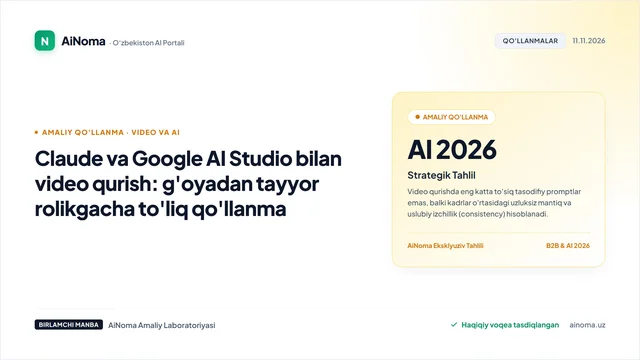
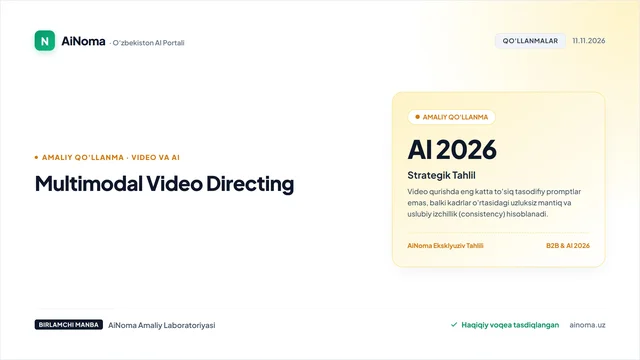
feat(prod): automated live deployment sync

Changed region(s): [[0.0312, 0.3361, 0.5312, 0.6111]]

diff --git a/ainoma/articles-data.js b/ainoma/articles-data.js
@@ -1,5 +1,3 @@
-// AiNoma Central Content Database
-// Generated & Synchronized automatically
 window.AINOMA_ARTICLES = {
   "dizaynerlar-uchun-ai": {
     "id": "dizaynerlar-uchun-ai",
@@ -6859,7 +6857,8 @@ window.AINOMA_ARTICLES = {
     ],
     "body": "<p><b>Qisqa javob:</b> Sun'iy intellekt xavfsizligi va yetakchi tadqiqotlar bo'yicha gigant hisoblangan Anthropic o'zining yangi flagman modellari — <b>Claude Fable 5.2</b> hamda <b>Mythos 5.2</b> tizimlarini rasman e'lon qildi. Ushbu yangi modellar OpenAI'ning GPT-6 Astra modeliga munosib javob bo'lib, korxonalarga 20 foiz arzonroq narxda yuqori mantiqiy fikrlash quvvatini taqdim etadi.</p>\n\n<h2 class=\"article-section-title\">Astra bilan kuchlar tenglashuvi</h2>\n<p>Kuz mavsumida OpenAI GPT-6 Astra modelini taqdim etgach, dasturlash va murakkab agentlik vazifalarida bozor yetakchiligini o'ziga qaratgan edi. Anthropic tomonidan taqdim etilgan Fable 5.2 va Mythos 5.2 aynan ushbu bo'shliqni to'ldiradi. Mustaqil benchmarklar ko'rsatishicha, yangi Claude modellari kod tahlili, huquqiy va ilmiy matnlarni qayta ishlash hamda ko'p bosqichli matematik xulosalashda OpenAI flagmani bilan mutlaqo teng natijalarni qayd etgan.</p>\n\n<h2 class=\"article-section-title\">20% arzon narx siyosati</h2>\n<p>Anthropic jamoasi yangi modellarni tarqatishda korporativ mijozlar uchun jozibador narx taklifini ilgari surmoqda. 1 million kirish tokeni bahosi <b>8 dollar</b>, chiqish tokeni esa <b>40 dollar</b> etib belgilandi. Bu OpenAI Astra modelining rasmiy API narxlaridan taxminan 20 foiz pastroq deganidir. Yirik korxonalar va SaaS kompaniyalar uchun bu hisoblash byudjetini yuz minglab dollarga tejash imkonini beradi.</p>\n\n<h2 class=\"article-section-title\">Nasdaq IPO arafasidagi strategik qadam</h2>\n<p>Ushbu yangilik Anthropic kompaniyasining Nasdaq birjasida kutilayotgan ommaviy birlamchi aksiyalar savdosi (IPO, ticker: <code>ANT</code>) arafasida e'lon qilindi. Kompaniyaning 1 trillion dollardan oshiq baholanishi kutilayotgan bir paytda, yangi modellar Anthropic nafaqat ilmiy xavfsizlik, balki tijoriy samaradorlik bo'yicha ham sanoat yetakchisi ekanligini isbotlamoqda.</p>",
     "contentHtml": "<p><b>Qisqa javob:</b> Sun'iy intellekt xavfsizligi va yetakchi tadqiqotlar bo'yicha gigant hisoblangan Anthropic o'zining yangi flagman modellari — <b>Claude Fable 5.2</b> hamda <b>Mythos 5.2</b> tizimlarini rasman e'lon qildi. Ushbu yangi modellar OpenAI'ning GPT-6 Astra modeliga munosib javob bo'lib, korxonalarga 20 foiz arzonroq narxda yuqori mantiqiy fikrlash quvvatini taqdim etadi.</p>\n\n<h2 class=\"article-section-title\">Astra bilan kuchlar tenglashuvi</h2>\n<p>Kuz mavsumida OpenAI GPT-6 Astra modelini taqdim etgach, dasturlash va murakkab agentlik vazifalarida bozor yetakchiligini o'ziga qaratgan edi. Anthropic tomonidan taqdim etilgan Fable 5.2 va Mythos 5.2 aynan ushbu bo'shliqni to'ldiradi. Mustaqil benchmarklar ko'rsatishicha, yangi Claude modellari kod tahlili, huquqiy va ilmiy matnlarni qayta ishlash hamda ko'p bosqichli matematik xulosalashda OpenAI flagmani bilan mutlaqo teng natijalarni qayd etgan.</p>\n\n<h2 class=\"article-section-title\">20% arzon narx siyosati</h2>\n<p>Anthropic jamoasi yangi modellarni tarqatishda korporativ mijozlar uchun jozibador narx taklifini ilgari surmoqda. 1 million kirish tokeni bahosi <b>8 dollar</b>, chiqish tokeni esa <b>40 dollar</b> etib belgilandi. Bu OpenAI Astra modelining rasmiy API narxlaridan taxminan 20 foiz pastroq deganidir. Yirik korxonalar va SaaS kompaniyalar uchun bu hisoblash byudjetini yuz minglab dollarga tejash imkonini beradi.</p>\n\n<h2 class=\"article-section-title\">Nasdaq IPO arafasidagi strategik qadam</h2>\n<p>Ushbu yangilik Anthropic kompaniyasining Nasdaq birjasida kutilayotgan ommaviy birlamchi aksiyalar savdosi (IPO, ticker: <code>ANT</code>) arafasida e'lon qilindi. Kompaniyaning 1 trillion dollardan oshiq baholanishi kutilayotgan bir paytda, yangi modellar Anthropic nafaqat ilmiy xavfsizlik, balki tijoriy samaradorlik bo'yicha ham sanoat yetakchisi ekanligini isbotlamoqda.</p>",
-    "verification_status": "VERIFIED"
+    "verification_status": "VERIFIED",
+    "banner_title": "Claude Fable 5.2 & Mythos 5.2"
   },
   "google-tpu-8tx-8i-max-chiplarini-chiqardi-2026": {
     "id": "google-tpu-8tx-8i-max-chiplarini-chiqardi-2026",
@@ -6898,7 +6897,8 @@ window.AINOMA_ARTICLES = {
     ],
     "body": "<p><b>Qisqa javob:</b> Google bulutli hisoblash va sun'iy intellekt infratuzilmasi sohasida muhim qadam tashlab, o'zining navbatdagi maxsus neyron protsessorlari — <b>TPU 8tx</b> hamda <b>TPU 8i Max</b> chiplarini namoyish etdi. Ushbu chiplar Nvidia apparaturasiga nisbatan 30 foiz arzon narxda inferens va trening imkoniyatini taqdim etadi.</p>\n\n<h2 class=\"article-section-title\">Nvidia apparat monopoliyasiga to'g'ridan-to'g'ri zarba</h2>\n<p>Bozorda Nvidia GPU chiplari (ayniqsa Blackwell va undan keyingi arxitekturalar) taqchilligi va haddan tashqari qimmatligi IT kompaniyalarini muqobil yo'llar qidirishga majbur qilmoqda. Google tomonidan taqdim etilgan TPU 8tx katta hajmdagi parametrlarga ega til modellarini o'qitish uchun, 8i Max esa past kechikish vaqti (latency) bilan keng ko'lamli so'rovlarni qayta ishlashga (inferens) ixtisoslashgan.</p>\n\n<h2 class=\"article-section-title\">Energiya tejamkorligi va optik kommutatsiya</h2>\n<p>Google yangi TPU podlarida o'zining ilg'or Optical Circuit Switching (OCS) texnologiyasini yangi bosqichga olib chiqdi. Bu chiplararo ma'lumot uzatishda elektr energiyasini 40 foizga tejash, ma'lumotlar uzatish kechikishini esa deyarli nolga tushirish imkonini beradi. Natijada yirik klasterlarda hisoblash samaradorligi 1.4 baravarga oshgan.</p>\n\n<h2 class=\"article-section-title\">Bozor yetakchilari TPU klasterlariga o'tmoqda</h2>\n<p>E'tiborli jihati, Google TPU chiplaridan faqat o'zining Gemini modellari uchun emas, balki boshqa AI gigantlari ham keng foydalanmoqda. Anthropic, Meta va Oracle korporatsiyalari yangi TPU 8tx klasterlarini buyurtma qilib bo'lgan. Wall Street tahlilchilari prognoziga ko'ra, OpenAI ham xavflarni diversifikatsiya qilish maqsadida Google TPU quvvatlaridan foydalanish bo'yicha muzokaralar olib bormoqda.</p>",
     "contentHtml": "<p><b>Qisqa javob:</b> Google bulutli hisoblash va sun'iy intellekt infratuzilmasi sohasida muhim qadam tashlab, o'zining navbatdagi maxsus neyron protsessorlari — <b>TPU 8tx</b> hamda <b>TPU 8i Max</b> chiplarini namoyish etdi. Ushbu chiplar Nvidia apparaturasiga nisbatan 30 foiz arzon narxda inferens va trening imkoniyatini taqdim etadi.</p>\n\n<h2 class=\"article-section-title\">Nvidia apparat monopoliyasiga to'g'ridan-to'g'ri zarba</h2>\n<p>Bozorda Nvidia GPU chiplari (ayniqsa Blackwell va undan keyingi arxitekturalar) taqchilligi va haddan tashqari qimmatligi IT kompaniyalarini muqobil yo'llar qidirishga majbur qilmoqda. Google tomonidan taqdim etilgan TPU 8tx katta hajmdagi parametrlarga ega til modellarini o'qitish uchun, 8i Max esa past kechikish vaqti (latency) bilan keng ko'lamli so'rovlarni qayta ishlashga (inferens) ixtisoslashgan.</p>\n\n<h2 class=\"article-section-title\">Energiya tejamkorligi va optik kommutatsiya</h2>\n<p>Google yangi TPU podlarida o'zining ilg'or Optical Circuit Switching (OCS) texnologiyasini yangi bosqichga olib chiqdi. Bu chiplararo ma'lumot uzatishda elektr energiyasini 40 foizga tejash, ma'lumotlar uzatish kechikishini esa deyarli nolga tushirish imkonini beradi. Natijada yirik klasterlarda hisoblash samaradorligi 1.4 baravarga oshgan.</p>\n\n<h2 class=\"article-section-title\">Bozor yetakchilari TPU klasterlariga o'tmoqda</h2>\n<p>E'tiborli jihati, Google TPU chiplaridan faqat o'zining Gemini modellari uchun emas, balki boshqa AI gigantlari ham keng foydalanmoqda. Anthropic, Meta va Oracle korporatsiyalari yangi TPU 8tx klasterlarini buyurtma qilib bo'lgan. Wall Street tahlilchilari prognoziga ko'ra, OpenAI ham xavflarni diversifikatsiya qilish maqsadida Google TPU quvvatlaridan foydalanish bo'yicha muzokaralar olib bormoqda.</p>",
-    "verification_status": "VERIFIED"
+    "verification_status": "VERIFIED",
+    "banner_title": "Google TPU 8tx & 8i Max"
   },
   "huquqshunoslar-uchun-ai": {
     "id": "huquqshunoslar-uchun-ai",
@@ -6937,7 +6937,8 @@ window.AINOMA_ARTICLES = {
     ],
     "body": "<p><b>Qisqa javob:</b> Sun'iy intellekt katta hajmdagi hujjatlarni tezda ko'rib chiqish, asosiy bandlarni ajratib olish va birinchi qoralamalarni tayyorlashda vaqtni sezilarli tejaydi — ammo yakuniy huquqiy xulosa va mas'uliyat har doim inson yuristning o'zida qoladi.</p>\n\n<h2 class=\"article-section-title\">Qayerda eng ko'p yordam beradi?</h2>\n<p><b>1. Uzun hujjatlarni tezda ko'rib chiqish.</b> Ko'p sahifali shartnoma yoki qonun hujjatini AI tizimiga berib, asosiy bandlar, muddatlar, jarimalar va majburiyatlarni qisqa tahliliy ro'yxat shaklida olishingiz mumkin.</p>\n<p><b>2. Birinchi qoralama tayyorlash.</b> Standart xat, e'tiroznomalar, da'vo arizalari yoki oddiy shartnoma shablonining boshlang'ich qoralamasini bir necha daqiqada tayyorlash — keyin uni o'zingiz to'liq tahrirlash imkoniyati taqdim etiladi.</p>\n<p><b>3. Til va uslubni yaxshilash.</b> Yuridik hujjatni aniqroq, tushunarliroq tilda qayta bayon qilish (ayniqsa mijozga yuboriladigan tushuntirish xatlari uchun juda qulay).</p>\n<p><b>4. Solishtirish (Redline tahlil).</b> Ikki shartnoma variantini (masalan, eski va yangi tahrir) solishtirib, yashirin o'zgarishlar va asosiy farqlarni bir zumda topish.</p>\n\n<h2 class=\"article-section-title\">Qayerda AI'ga ishonib bo'lmaydi?</h2>\n<p>⚠ <b>Gallyutsinatsiyalar va qonun normalari:</b> AI amaldagi qonunchilikni har doim to'liq va aniq bilmasligi mumkin — ayniqsa O'zbekiston Respublikasi qonunchiligidagi so'nggi tahrirlar bo'yicha. AI ba'zan ishonchli ohangda, ammo aslida mavjud bo'lmagan qonun moddalari yoki sud pretsedentlarini to'qib chiqarishi (hallucination) mumkin. Har qanday huquqiy havola yoki modda raqamini <code>Lex.uz</code> kabi rasmiy davlat bazalarida tekshirish shart.</p>\n\n<p>🔒 <b>Mijoz sirlari va konfidentsiallik:</b> Mijozlarning tijorat sirlari, shartnoma summalari va shaxsiy ma'lumotlarini ochiq umumiy AI platformalariga kiritish taqiqlanadi. Agar enterprise darajasidagi xavfsiz klaster bo'lmasa, maxfiy ma'lumotlar ochiqlanishi xavfi mavjud.</p>\n\n<h2 class=\"article-section-title\">Oltin qoida: Junior yordamchi tamoyili</h2>\n<p>Sun'iy intellektdan malakali yordamchi sifatida foydalaning: u sizga qoralama va tahlil tezligini beradi, biroq hujjatga qo'yiladigan har bir imzo va professional xulosa — sizning shaxsiy mas'uliyatingizdir.</p>",
     "contentHtml": "<p><b>Qisqa javob:</b> Sun'iy intellekt katta hajmdagi hujjatlarni tezda ko'rib chiqish, asosiy bandlarni ajratib olish va birinchi qoralamalarni tayyorlashda vaqtni sezilarli tejaydi — ammo yakuniy huquqiy xulosa va mas'uliyat har doim inson yuristning o'zida qoladi.</p>\n\n<h2 class=\"article-section-title\">Qayerda eng ko'p yordam beradi?</h2>\n<p><b>1. Uzun hujjatlarni tezda ko'rib chiqish.</b> Ko'p sahifali shartnoma yoki qonun hujjatini AI tizimiga berib, asosiy bandlar, muddatlar, jarimalar va majburiyatlarni qisqa tahliliy ro'yxat shaklida olishingiz mumkin.</p>\n<p><b>2. Birinchi qoralama tayyorlash.</b> Standart xat, e'tiroznomalar, da'vo arizalari yoki oddiy shartnoma shablonining boshlang'ich qoralamasini bir necha daqiqada tayyorlash — keyin uni o'zingiz to'liq tahrirlash imkoniyati taqdim etiladi.</p>\n<p><b>3. Til va uslubni yaxshilash.</b> Yuridik hujjatni aniqroq, tushunarliroq tilda qayta bayon qilish (ayniqsa mijozga yuboriladigan tushuntirish xatlari uchun juda qulay).</p>\n<p><b>4. Solishtirish (Redline tahlil).</b> Ikki shartnoma variantini (masalan, eski va yangi tahrir) solishtirib, yashirin o'zgarishlar va asosiy farqlarni bir zumda topish.</p>\n\n<h2 class=\"article-section-title\">Qayerda AI'ga ishonib bo'lmaydi?</h2>\n<p>⚠ <b>Gallyutsinatsiyalar va qonun normalari:</b> AI amaldagi qonunchilikni har doim to'liq va aniq bilmasligi mumkin — ayniqsa O'zbekiston Respublikasi qonunchiligidagi so'nggi tahrirlar bo'yicha. AI ba'zan ishonchli ohangda, ammo aslida mavjud bo'lmagan qonun moddalari yoki sud pretsedentlarini to'qib chiqarishi (hallucination) mumkin. Har qanday huquqiy havola yoki modda raqamini <code>Lex.uz</code> kabi rasmiy davlat bazalarida tekshirish shart.</p>\n\n<p>🔒 <b>Mijoz sirlari va konfidentsiallik:</b> Mijozlarning tijorat sirlari, shartnoma summalari va shaxsiy ma'lumotlarini ochiq umumiy AI platformalariga kiritish taqiqlanadi. Agar enterprise darajasidagi xavfsiz klaster bo'lmasa, maxfiy ma'lumotlar ochiqlanishi xavfi mavjud.</p>\n\n<h2 class=\"article-section-title\">Oltin qoida: Junior yordamchi tamoyili</h2>\n<p>Sun'iy intellektdan malakali yordamchi sifatida foydalaning: u sizga qoralama va tahlil tezligini beradi, biroq hujjatga qo'yiladigan har bir imzo va professional xulosa — sizning shaxsiy mas'uliyatingizdir.</p>",
-    "verification_status": "VERIFIED"
+    "verification_status": "VERIFIED",
+    "banner_title": "Huquqshunoslar Uchun AI"
   },
   "openai-businesses-in-chatgpt-business-hub-2026": {
     "id": "openai-businesses-in-chatgpt-business-hub-2026",
@@ -6976,7 +6977,8 @@ window.AINOMA_ARTICLES = {
     ],
     "body": "<p><b>Qisqa javob:</b> OpenAI sun'iy intellekt orqali qidiruv va muloqot bozoridan so'ng endi global elektron tijorat markaziga aylanmoqda. Yangi taqdim etilgan <b>«Businesses in ChatGPT»</b> dasturi orqali kompaniyalar ChatGPT interfeysi ichida rasmiy tasdiqlangan biznes profilini ochish, mahsulotlar katalogini ulash va avtonom savdo agentlarini ishga tushirish imkoniyatiga ega bo'ldi.</p>\n\n<h2 class=\"article-section-title\">800 million auditoriya uchun to'g'ridan-to'g'ri vitrina</h2>\n<p>ChatGPT'ning haftalik faol foydalanuvchilari soni 800 milliondan oshgan bir paytda, foydalanuvchilar har kuni millionlab xarid bo'yicha tavsiyalar, mahsulot taqqoslashlari va xizmat qidiruvlarini amalga oshirmoqda. OpenAI yangi funksiya orqali an'anaviy veb-saytga o'tish zaruriyatini yo'qotib, barcha xarid jarayonini bevosita chat oqimida yakunlash muhitini shakllantirdi.</p>\n\n<h2 class=\"article-section-title\">Xususiy brend agenti va katalog integratsiyasi</h2>\n<p>Bizneslar endi o'z ERP, CRM va ombor tizimlarini ChatGPT bilan xavfsiz API protokollari orqali bog'lashi mumkin. Kompaniyaning maxsus sun'iy intellekt agenti quyidagi vazifalarni avtomatlashtiradi:</p>\n<ul>\n  <li>Mijozning o'lchami, didi va byudjetiga mos tovarlarni real vaqt rejimida tavsiya qilish;</li>\n  <li>Ombordagi qoldiqlarni tekshirish va yetkazib berish muddatlarini hisoblash;</li>\n  <li>To'lovni muloqot oynasining o'zida xavfsiz qabul qilish va chek taqdim etish.</li>\n</ul>\n\n<h2 class=\"article-section-title\">Google qidiruvi va an'anaviy e-commerce uchun chaqiruv</h2>\n<p>Ushbu yangilik an'anaviy qidiruv tizimlari (Google Search reklamalari) hamda Amazon, Shopify kabi onlayn platformalar uchun jiddiy raqobat muhitini paydo qilmoqda. Kompaniyalar endi mijozni qidiruv natijalaridan o'z saytiga jalb qilish o'rniga, uning muloqot qilayotgan joyida — sun'iy intellekt agenti orqali to'g'ridan-to'g'ri savdoni yo'lga qo'ymoqda.</p>",
     "contentHtml": "<p><b>Qisqa javob:</b> OpenAI sun'iy intellekt orqali qidiruv va muloqot bozoridan so'ng endi global elektron tijorat markaziga aylanmoqda. Yangi taqdim etilgan <b>«Businesses in ChatGPT»</b> dasturi orqali kompaniyalar ChatGPT interfeysi ichida rasmiy tasdiqlangan biznes profilini ochish, mahsulotlar katalogini ulash va avtonom savdo agentlarini ishga tushirish imkoniyatiga ega bo'ldi.</p>\n\n<h2 class=\"article-section-title\">800 million auditoriya uchun to'g'ridan-to'g'ri vitrina</h2>\n<p>ChatGPT'ning haftalik faol foydalanuvchilari soni 800 milliondan oshgan bir paytda, foydalanuvchilar har kuni millionlab xarid bo'yicha tavsiyalar, mahsulot taqqoslashlari va xizmat qidiruvlarini amalga oshirmoqda. OpenAI yangi funksiya orqali an'anaviy veb-saytga o'tish zaruriyatini yo'qotib, barcha xarid jarayonini bevosita chat oqimida yakunlash muhitini shakllantirdi.</p>\n\n<h2 class=\"article-section-title\">Xususiy brend agenti va katalog integratsiyasi</h2>\n<p>Bizneslar endi o'z ERP, CRM va ombor tizimlarini ChatGPT bilan xavfsiz API protokollari orqali bog'lashi mumkin. Kompaniyaning maxsus sun'iy intellekt agenti quyidagi vazifalarni avtomatlashtiradi:</p>\n<ul>\n  <li>Mijozning o'lchami, didi va byudjetiga mos tovarlarni real vaqt rejimida tavsiya qilish;</li>\n  <li>Ombordagi qoldiqlarni tekshirish va yetkazib berish muddatlarini hisoblash;</li>\n  <li>To'lovni muloqot oynasining o'zida xavfsiz qabul qilish va chek taqdim etish.</li>\n</ul>\n\n<h2 class=\"article-section-title\">Google qidiruvi va an'anaviy e-commerce uchun chaqiruv</h2>\n<p>Ushbu yangilik an'anaviy qidiruv tizimlari (Google Search reklamalari) hamda Amazon, Shopify kabi onlayn platformalar uchun jiddiy raqobat muhitini paydo qilmoqda. Kompaniyalar endi mijozni qidiruv natijalaridan o'z saytiga jalb qilish o'rniga, uning muloqot qilayotgan joyida — sun'iy intellekt agenti orqali to'g'ridan-to'g'ri savdoni yo'lga qo'ymoqda.</p>",
-    "verification_status": "VERIFIED"
+    "verification_status": "VERIFIED",
+    "banner_title": "Businesses in ChatGPT"
   },
   "anthropic-claude-sheets-whiteboards-ofis-dasturlari-2026": {
     "id": "anthropic-claude-sheets-whiteboards-ofis-dasturlari-2026",
@@ -7015,7 +7017,8 @@ window.AINOMA_ARTICLES = {
     ],
     "body": "<p><b>Qisqa javob:</b> Anthropic kompaniyasi generativ sun'iy intellekt modellarini amaliy ish oqimlariga chuqur integratsiya qilish strategiyasining yangi bosqichini boshladi. Taqdim etilgan <b>Claude Sheets</b> va <b>Claude Whiteboards</b> bevosita Google Workspace hamda Microsoft 365 ekotizimlarining eng ommabop vositalari bilan raqobatga kirishmoqda.</p>\n\n<h2 class=\"article-section-title\">Claude Sheets: Faol ma'lumotlar bilan hisob-kitob</h2>\n<p>An'anaviy elektron jadvallarda foydalanuvchilar murakkab formulalar (VLOOKUP, INDEX MATCH) yozishi yoki skriptlar tuzishi talab etiladi. Claude Sheets esa har bir katakchani sun'iy intellekt qobiliyati bilan jihozlaydi. Foydalanuvchi oddiy so'zlar bilan moliyaviy hisobotni tahlil qilish, daromadlar kaskadini hisoblash yoki bozor ko'rsatkichlarini taqqoslashni buyurishi mumkin — tizim formulalarni avtomatik qo'llab, to'liq diagrammalarni shakllantiradi.</p>\n\n<h2 class=\"article-section-title\">Claude Whiteboards: Murakkab tizimlarni vizual tushunish</h2>\n<p>Dasturiy arxitektura, biznes jarayonlar va mahsulot rejalari bilan ishlovchi jamoalar uchun Whiteboards interaktiv maydon taqdim etadi. Matnli talablar yoki mijoz bilan suhbat stenogrammasi Claude Whiteboards'ga yuklanganda, tizim bir zumda blok-sxemalar, foydalanuvchi yo'llari (user journeys) va tizimli modullarni vizual doskada tartiblab beradi.</p>\n\n<h2 class=\"article-section-title\">Korporativ bozor uchun yangi standart</h2>\n<p>Mazkur qadam Anthropic kompaniyasining dasturchilar va tadqiqotchilar doirasidan chiqib, millionlab ofis xodimlari va tahlilchilarning kundalik asosiy ish maydoniga aylanish maqsadini ko'rsatadi. Korxona xavfsizligi va maxfiylik standartlari to'liq saqlangan holda jamoaviy hamkorlik funksiyalari taqdim etilmoqda.</p>",
     "contentHtml": "<p><b>Qisqa javob:</b> Anthropic kompaniyasi generativ sun'iy intellekt modellarini amaliy ish oqimlariga chuqur integratsiya qilish strategiyasining yangi bosqichini boshladi. Taqdim etilgan <b>Claude Sheets</b> va <b>Claude Whiteboards</b> bevosita Google Workspace hamda Microsoft 365 ekotizimlarining eng ommabop vositalari bilan raqobatga kirishmoqda.</p>\n\n<h2 class=\"article-section-title\">Claude Sheets: Faol ma'lumotlar bilan hisob-kitob</h2>\n<p>An'anaviy elektron jadvallarda foydalanuvchilar murakkab formulalar (VLOOKUP, INDEX MATCH) yozishi yoki skriptlar tuzishi talab etiladi. Claude Sheets esa har bir katakchani sun'iy intellekt qobiliyati bilan jihozlaydi. Foydalanuvchi oddiy so'zlar bilan moliyaviy hisobotni tahlil qilish, daromadlar kaskadini hisoblash yoki bozor ko'rsatkichlarini taqqoslashni buyurishi mumkin — tizim formulalarni avtomatik qo'llab, to'liq diagrammalarni shakllantiradi.</p>\n\n<h2 class=\"article-section-title\">Claude Whiteboards: Murakkab tizimlarni vizual tushunish</h2>\n<p>Dasturiy arxitektura, biznes jarayonlar va mahsulot rejalari bilan ishlovchi jamoalar uchun Whiteboards interaktiv maydon taqdim etadi. Matnli talablar yoki mijoz bilan suhbat stenogrammasi Claude Whiteboards'ga yuklanganda, tizim bir zumda blok-sxemalar, foydalanuvchi yo'llari (user journeys) va tizimli modullarni vizual doskada tartiblab beradi.</p>\n\n<h2 class=\"article-section-title\">Korporativ bozor uchun yangi standart</h2>\n<p>Mazkur qadam Anthropic kompaniyasining dasturchilar va tadqiqotchilar doirasidan chiqib, millionlab ofis xodimlari va tahlilchilarning kundalik asosiy ish maydoniga aylanish maqsadini ko'rsatadi. Korxona xavfsizligi va maxfiylik standartlari to'liq saqlangan holda jamoaviy hamkorlik funksiyalari taqdim etilmoqda.</p>",
-    "verification_status": "VERIFIED"
+    "verification_status": "VERIFIED",
+    "banner_title": "Claude Sheets & Whiteboards"
   },
   "claude-va-google-ai-studio-bilan-video-qurish-qollanma": {
     "id": "claude-va-google-ai-studio-bilan-video-qurish-qollanma",
@@ -7054,6 +7057,7 @@ window.AINOMA_ARTICLES = {
     ],
     "body": "<p><b>Qisqa javob:</b> Ko'pchilik foydalanuvchilar sun'iy intellektda video ishlab chiqarishda bir xil xatoga yo'l qo'yadi: bitta umumiy prompt yozib, video generatoridan mo'jiza kutadi. Professional natijaga erishish uchun esa ikki bosqichli tizimli arxitektura zarur: <b>Claude</b> — mantiqiy ssenariy, kadrlar vaqti va rejissyorlik rejasi uchun javob beradi; <b>Google AI Studio (Gemini)</b> esa multimodal tahlil, vizual izchillik va Google Veo modeliga kiritiladigan optik ko'rsatkichlarni boshqaradi.</p>\n\n<h2 class=\"article-section-title\">1-bosqich: Claude bilan rejissyorlik rejasi va promptlar arxitekturasi</h2>\n<p>Rolik qurishni boshlashdan oldin Claude'ga aniq kontekst bering. Sun'iy intellekt video generatorlari (Google Veo, Runway, Kling, Sora) uchun har bir kadr alohida va batafsil yozilishi shart. Claude'ga quyidagi tizimli promptni yuboring:</p>\n\n<pre class=\"article-code-block\"><code>Siz xalqaro darajadagi kino rejissyori va video direktorsiz.\nMavzu: [Mavzuni yozing, masalan: Toshkentdagi yangi IT-park faoliyati]\nFormat: 30 soniyalik vertikal rolik (9:16)\nAuditoriya: Yosh mutaxassislar va xorijiy investorlar\n\nMenga 5 ta ketma-ket kadr (Shot-by-Shot) uchun quyidagi jadvalni taqdim eting:\n1. Kadr raqami va vaqti (masalan, Shot 1: 00:00 - 00:04);\n2. Vizual tavsif (qahramon harakati, muhit);\n3. Kamera optikasi va harakati (masalan: 35mm lens, dolly-in, shallow depth of field);\n4. Rang va yorug'lik harorati (masalan: cinematic golden hour, volumetric haze);\n5. AI Video generatori (Google Veo / Kling) uchun sof ingliz tilidagi yakuniy prompt.</code></pre>\n\n<p>Natijada Claude sizga tasodifiy gaplar emas, balki montajchining ishchi rejasiga o'xshash professional arxitekturani ishlab beradi.</p>\n\n<h2 class=\"article-section-title\">2-bosqich: Google AI Studio'da multimodal tahlil va izchillik nazorati</h2>\n<p>Kadrlar bo'yicha promptlar tayyor bo'lgach, ikkinchi muhim qadam — Google AI Studio (aistudio.google.com) platformasiga o'tishdir. Google AI Studio quyidagi vazifalarda tengsiz imkoniyat taqdim etadi:</p>\n<ul>\n  <li><b>Qahramon va rang izchilligi (Visual Consistency):</b> Agar sizda bosh qahramonning surati yoki brend ranglar palitrasi bo'lsa, uni Google AI Studio'ga yuklang va Gemini 2.0 Flash / Pro modeliga tahlil qildiring: <i>«Ushbu personaj kiyimi, yuz tuzilishi va atrof-muhit ranglarini keyingi barcha video promptlarida o'zgarmas saqlash uchun qaysi asosiy deskriptorlarni kiritish lozim?»</i></li>\n  <li><b>Video kadrlarni tekshirish:</b> Generatsiya qilingan dastlabki 3-5 soniyalik sinov parchalarini Google AI Studio'ga yuklab, harakat ritmi, kadrlar chalkashligi va fizik buzilishlarni aniqlashingiz mumkin.</li>\n</ul>\n\n<h2 class=\"article-section-title\">3-bosqich: Kadrlar bo'yicha generatsiya va Veo prompt qoidalari</h2>\n<p>Google Veo yoki yetakchi video generatorlariga prompt berishda quyidagi 4 elementli oltin qoidaga rioya qiling:</p>\n<ol>\n  <li><b>Subyekt va asosiy harakat:</b> Kadr markazida kim yoki nima bor va u aniq nima qilyapti (masalan, <i>«A software engineer walking through a futuristic glass-walled office»</i>);</li>\n  <li><b>Kamera va kompozitsiya:</b> Kamera qayerda va qanday harakatlanadi (masalan, <i>«Low-angle slow tracking shot, 50mm anamorphic lens, subtle motion blur»</i>);</li>\n  <li><b>Yorug'lik va atmosfera:</b> Ranglar va nur yo'nalishi (masalan, <i>«Soft morning cinematic sunlight streaming through floor-to-ceiling windows, dust motes floating»</i>);</li>\n  <li><b>Texnik sifat parametrlari:</b> <i>«Photorealistic, 8k resolution, cinematic color grading, hyper-detailed textures, 24fps»</i>.</li>\n</ol>\n\n<h2 class=\"article-section-title\">4-bosqich: Montaj, ovoz va subtitrlarni birlashtirish</h2>\n<p>Barcha 5 ta kadr tayyor bo'lgach, ularni CapCut, Premiere Pro yoki DaVinci Resolve dasturiga joylang:</p>\n<ul>\n  <li><b>Kadrlar o'tishi:</b> Har bir kadr davomiyligini ssenariydagi vaqt bilan moslang. AI videolarda eng yaxshi o'tish — bu oddiy kesish (hard cut) yoki sekin xiralashish (cross dissolve). Ortiqcha murakkab 3D o'tishlardan saqlaning;</li>\n  <li><b>Ovozlashtirish:</b> Claude orqali ssenariy diktor matnini (voiceover) ElevenLabs kabi neyron ovoz platformasida o'zbek yoki ingliz tilida professional yozib oling;</li>\n  <li><b>Dinamik subtitrlar:</b> Mobil auditoriya uchun subtitrlar judayam muhim. Kadr markazini to'smaydigan, qisqa va qulay shriftlardan foydalaning.</li>\n</ul>\n\n<h2 class=\"article-section-title\">Xulosa: Tizimli yondashuv — kafolatlangan sifat</h2>\n<p>Professional darajadagi video tayyorlashda sun'iy intellekt sehrli tugma emas, balki puxta boshqariladigan ijodiy guruhdir. Claude — ssenariy muallifi va bosh rejissyor vazifasini bajarsa, Google AI Studio — texnik tahlilchi va sifat nazoratchisi vazifasini o'taydi. Ushbu tizimli zanjir orqali siz minimal vaqt sarflab, yuqori sifatli vizual loyihalarni muvaffaqiyatli qurishingiz mumkin.</p>",
     "contentHtml": "<p><b>Qisqa javob:</b> Ko'pchilik foydalanuvchilar sun'iy intellektda video ishlab chiqarishda bir xil xatoga yo'l qo'yadi: bitta umumiy prompt yozib, video generatoridan mo'jiza kutadi. Professional natijaga erishish uchun esa ikki bosqichli tizimli arxitektura zarur: <b>Claude</b> — mantiqiy ssenariy, kadrlar vaqti va rejissyorlik rejasi uchun javob beradi; <b>Google AI Studio (Gemini)</b> esa multimodal tahlil, vizual izchillik va Google Veo modeliga kiritiladigan optik ko'rsatkichlarni boshqaradi.</p>\n\n<h2 class=\"article-section-title\">1-bosqich: Claude bilan rejissyorlik rejasi va promptlar arxitekturasi</h2>\n<p>Rolik qurishni boshlashdan oldin Claude'ga aniq kontekst bering. Sun'iy intellekt video generatorlari (Google Veo, Runway, Kling, Sora) uchun har bir kadr alohida va batafsil yozilishi shart. Claude'ga quyidagi tizimli promptni yuboring:</p>\n\n<pre class=\"article-code-block\"><code>Siz xalqaro darajadagi kino rejissyori va video direktorsiz.\nMavzu: [Mavzuni yozing, masalan: Toshkentdagi yangi IT-park faoliyati]\nFormat: 30 soniyalik vertikal rolik (9:16)\nAuditoriya: Yosh mutaxassislar va xorijiy investorlar\n\nMenga 5 ta ketma-ket kadr (Shot-by-Shot) uchun quyidagi jadvalni taqdim eting:\n1. Kadr raqami va vaqti (masalan, Shot 1: 00:00 - 00:04);\n2. Vizual tavsif (qahramon harakati, muhit);\n3. Kamera optikasi va harakati (masalan: 35mm lens, dolly-in, shallow depth of field);\n4. Rang va yorug'lik harorati (masalan: cinematic golden hour, volumetric haze);\n5. AI Video generatori (Google Veo / Kling) uchun sof ingliz tilidagi yakuniy prompt.</code></pre>\n\n<p>Natijada Claude sizga tasodifiy gaplar emas, balki montajchining ishchi rejasiga o'xshash professional arxitekturani ishlab beradi.</p>\n\n<h2 class=\"article-section-title\">2-bosqich: Google AI Studio'da multimodal tahlil va izchillik nazorati</h2>\n<p>Kadrlar bo'yicha promptlar tayyor bo'lgach, ikkinchi muhim qadam — Google AI Studio (aistudio.google.com) platformasiga o'tishdir. Google AI Studio quyidagi vazifalarda tengsiz imkoniyat taqdim etadi:</p>\n<ul>\n  <li><b>Qahramon va rang izchilligi (Visual Consistency):</b> Agar sizda bosh qahramonning surati yoki brend ranglar palitrasi bo'lsa, uni Google AI Studio'ga yuklang va Gemini 2.0 Flash / Pro modeliga tahlil qildiring: <i>«Ushbu personaj kiyimi, yuz tuzilishi va atrof-muhit ranglarini keyingi barcha video promptlarida o'zgarmas saqlash uchun qaysi asosiy deskriptorlarni kiritish lozim?»</i></li>\n  <li><b>Video kadrlarni tekshirish:</b> Generatsiya qilingan dastlabki 3-5 soniyalik sinov parchalarini Google AI Studio'ga yuklab, harakat ritmi, kadrlar chalkashligi va fizik buzilishlarni aniqlashingiz mumkin.</li>\n</ul>\n\n<h2 class=\"article-section-title\">3-bosqich: Kadrlar bo'yicha generatsiya va Veo prompt qoidalari</h2>\n<p>Google Veo yoki yetakchi video generatorlariga prompt berishda quyidagi 4 elementli oltin qoidaga rioya qiling:</p>\n<ol>\n  <li><b>Subyekt va asosiy harakat:</b> Kadr markazida kim yoki nima bor va u aniq nima qilyapti (masalan, <i>«A software engineer walking through a futuristic glass-walled office»</i>);</li>\n  <li><b>Kamera va kompozitsiya:</b> Kamera qayerda va qanday harakatlanadi (masalan, <i>«Low-angle slow tracking shot, 50mm anamorphic lens, subtle motion blur»</i>);</li>\n  <li><b>Yorug'lik va atmosfera:</b> Ranglar va nur yo'nalishi (masalan, <i>«Soft morning cinematic sunlight streaming through floor-to-ceiling windows, dust motes floating»</i>);</li>\n  <li><b>Texnik sifat parametrlari:</b> <i>«Photorealistic, 8k resolution, cinematic color grading, hyper-detailed textures, 24fps»</i>.</li>\n</ol>\n\n<h2 class=\"article-section-title\">4-bosqich: Montaj, ovoz va subtitrlarni birlashtirish</h2>\n<p>Barcha 5 ta kadr tayyor bo'lgach, ularni CapCut, Premiere Pro yoki DaVinci Resolve dasturiga joylang:</p>\n<ul>\n  <li><b>Kadrlar o'tishi:</b> Har bir kadr davomiyligini ssenariydagi vaqt bilan moslang. AI videolarda eng yaxshi o'tish — bu oddiy kesish (hard cut) yoki sekin xiralashish (cross dissolve). Ortiqcha murakkab 3D o'tishlardan saqlaning;</li>\n  <li><b>Ovozlashtirish:</b> Claude orqali ssenariy diktor matnini (voiceover) ElevenLabs kabi neyron ovoz platformasida o'zbek yoki ingliz tilida professional yozib oling;</li>\n  <li><b>Dinamik subtitrlar:</b> Mobil auditoriya uchun subtitrlar judayam muhim. Kadr markazini to'smaydigan, qisqa va qulay shriftlardan foydalaning.</li>\n</ul>\n\n<h2 class=\"article-section-title\">Xulosa: Tizimli yondashuv — kafolatlangan sifat</h2>\n<p>Professional darajadagi video tayyorlashda sun'iy intellekt sehrli tugma emas, balki puxta boshqariladigan ijodiy guruhdir. Claude — ssenariy muallifi va bosh rejissyor vazifasini bajarsa, Google AI Studio — texnik tahlilchi va sifat nazoratchisi vazifasini o'taydi. Ushbu tizimli zanjir orqali siz minimal vaqt sarflab, yuqori sifatli vizual loyihalarni muvaffaqiyatli qurishingiz mumkin.</p>",
-    "verification_status": "VERIFIED"
+    "verification_status": "VERIFIED",
+    "banner_title": "Multimodal Video Directing"
   }
 };

diff --git a/ainoma/index.html b/ainoma/index.html
@@ -7,7 +7,7 @@
   <meta name="keywords" content="sun'iy intellekt, suniy intellekt yangiliklari, ai vositalari, sun'iy intellekt dasturlari, chatgpt o'zbek tilida, ai qo'llanmalar, promptlar, ainoma">
   <title>AiNoma — O‘zbekistonda Sun’iy Intellekt (AI) Portali: Yangiliklar, Vositalar va Qo‘llanmalar</title>
   <meta name="google-site-verification" content="google88009caf699e3b68">
-  <link rel="stylesheet" href="style.css?v=1794398883">
+  <link rel="stylesheet" href="style.css?v=1794411774">
   <link rel="canonical" href="https://ainoma.uz/">
   <meta property="og:type" content="website">
   <meta property="og:site_name" content="AiNoma">
@@ -136,7 +136,7 @@
       </a>
     </div>
 
-                                                                                                                                                                                                                                                                                                                                                                                                                                                                                                                                                    <!-- Latest News Split Section (Kun.uz Style) -->
+                                                                                                                                                                                                                                                                                                                                                                                                                                                                                                                                                        <!-- Latest News Split Section (Kun.uz Style) -->
     <section class="news-main-section">
       <div class="news-split-layout">
         <div class="news-primary-col">
@@ -496,6 +496,6 @@
     </button>
   </nav>
 
-  <script src="app.js?v=1794398883"></script>
+  <script src="app.js?v=1794411774"></script>
 </body>
 </html>

diff --git a/ainoma/vositalar.html b/ainoma/vositalar.html
@@ -7,7 +7,7 @@
 <meta name="description" content="2026-yilning eng yaxshi sun’iy intellekt (AI) dasturlari va vositalari katalogi. Rasm chizish, video montaj, matn yozish va biznes uchun tasdiqlangan bepul va pullik AI servislar.">
   <meta name="keywords" content="sun'iy intellekt dasturlari, suniy intellekt, eng yaxshi ai vositalari, bepul ai dasturlar, ai rasm chizish, ai prezentatsiya, chatgpt, midjourney, deepseek, claude, ainoma">
 <title>Eng Yaxshi Sun’iy Intellekt Dasturlari (2026): Bepul va Amaliy AI Vositalar Katalogi — AiNoma</title>
-<link href="style.css?v=1794398883" rel="stylesheet"/>
+<link href="style.css?v=1794411774" rel="stylesheet"/>
 <link href="https://ainoma.uz/vositalar.html" rel="canonical"/>
 <meta content="website" property="og:type"/>
 <meta content="AiNoma" property="og:site_name"/>
@@ -711,7 +711,7 @@
   </div>
 </div>
 
-<script src="app.js?v=1794398883"></script>
+<script src="app.js?v=1794411774"></script>
 <script>
   // Tool Submission Modal Handler
   const submitModal = document.getElementById("submitToolModal");

diff --git a/ainoma/ai-prezentatsiya.html b/ainoma/ai-prezentatsiya.html
@@ -6,7 +6,7 @@
   <meta name="description" content="Taqdimot va slaydlar tayyorlaydigan eng kuchli sun’iy intellekt vositalari: Gamma AI, Beautiful.ai va Canva Magic. 5 daqiqada professional slayd tuzish, taqqoslash va amaliy qo‘llanma.">
   <meta name="keywords" content="prezentatsiya tayyorlaydigan ai, slayd qiladigan ai, slayd sun'iy intellekt, gamma ai uzbekcha, beautiful ai, taqdimot tayyorlash ai, gamma app">
   <title>Prezentatsiya Tayyorlaydigan AI: Eng Yaxshi Slayd Dasturlari (2026) | AiNoma</title>
-  <link rel="stylesheet" href="style.css?v=1794398883">
+  <link rel="stylesheet" href="style.css?v=1794411774">
   <link rel="canonical" href="https://ainoma.uz/ai-prezentatsiya.html">
   <meta property="og:type" content="article">
   <meta property="og:site_name" content="AiNoma">
@@ -345,6 +345,6 @@ Ranglar gammasi: Zumrad yashil va qora fon, professional va zamonaviy uslub.</pr
     </div>
   </footer>
 
-  <script src="app.js?v=1794398883"></script>
+  <script src="app.js?v=1794411774"></script>
 </body>
 </html>

diff --git a/ainoma/style.css b/ainoma/style.css
@@ -32,7 +32,7 @@
 
 * { box-sizing: border-box; }
 html, body {
-  overflow-x: hidden;
+  overflow-x: clip;
   max-width: 100%;
 }
 html { scroll-behavior: smooth; }
@@ -947,13 +947,25 @@ footer {
   font-weight: 700;
 }
 .article-hero {
-  width: min(1100px, calc(100% - 40px));
-  height: 480px;
+  width: min(980px, calc(100% - 40px));
+  max-width: 980px;
+  height: auto;
+  aspect-ratio: 16 / 9;
+  max-height: 520px;
   margin: 0 auto 36px;
-  border-radius: 12px;
+  border-radius: 14px;
   overflow: hidden;
+  box-shadow: 0 12px 36px -8px rgba(15, 23, 42, 0.12);
+  border: 1px solid #e2e8f0;
+  background: var(--surface);
 }
-.article-hero img { width: 100%; height: 100%; object-fit: cover; }
+.article-hero img {
+  width: 100%;
+  height: 100%;
+  object-fit: contain;
+  background: #f8fafc;
+  display: block;
+}
 .article-body { font-size: 17px; line-height: 1.8; }
 .article-body h2 { font: 800 28px "Space Grotesk", sans-serif; margin-top: 36px; margin-bottom: 14px; }
 .article-body p { margin: 0 0 20px; }

diff --git a/ainoma/chatgpt-uzbekiston.html b/ainoma/chatgpt-uzbekiston.html
@@ -6,7 +6,7 @@
   <meta name="description" content="ChatGPT nima va O‘zbekistonda undan qanday to‘g‘ri foydalanish kerak? VPN'siz kirish, ro‘yxatdan o‘tish, bepul ishlatish va ishga tayyor o‘zbekcha master promptlar to‘plami.">
   <meta name="keywords" content="chatgpt o'zbek tilida, chatgpt uzbekcha, chatgpt nima, chatgpt dan foydalanish, chatgpt royxatdan otish, chatgpt bepul, chatgpt promptlar, ainoma">
   <title>ChatGPT O‘zbek Tilida (2026): Ro‘yxatdan O‘tish, Bepul Foydalanish va Tayyor Promptlar — AiNoma</title>
-  <link rel="stylesheet" href="style.css?v=1794398883">
+  <link rel="stylesheet" href="style.css?v=1794411774">
   <link rel="canonical" href="https://ainoma.uz/chatgpt-uzbekiston.html">
   <meta property="og:type" content="article">
   <meta property="og:site_name" content="AiNoma">
@@ -415,6 +415,6 @@ Kod:
     </div>
   </footer>
 
-  <script src="app.js?v=1794398883"></script>
+  <script src="app.js?v=1794411774"></script>
 </body>
 </html>

diff --git a/ainoma/prompt-ustaxonasi.html b/ainoma/prompt-ustaxonasi.html
@@ -6,7 +6,7 @@
   <meta name="description" content="O‘zbek tilidagi professional ChatGPT va AI promptlar to‘plami hamda interaktiv prompt generatori. Marketing, savdo, dasturlash va tahlil uchun tayyor qoliplar.">
   <meta name="keywords" content="chatgpt promptlar, tayyor promptlar, prompt yozish, prompt injiniring, ai prompt generator, suniy intellekt prompt, ainoma">
   <title>Tayyor ChatGPT Promptlar va Prompt Konstruktori (2026) — AiNoma Prompt Ustaxonasi</title>
-  <link rel="stylesheet" href="style.css?v=1794398883">
+  <link rel="stylesheet" href="style.css?v=1794411774">
   <link rel="canonical" href="https://ainoma.uz/prompt-ustaxonasi.html">
   <link rel="icon" type="image/svg+xml" href="favicon.svg">
   <link rel="alternate icon" href="favicon.ico">
@@ -432,7 +432,7 @@ Har bir savol uchun:
     </button>
   </nav>
 
-  <script src="app.js?v=1794398883"></script>
+  <script src="app.js?v=1794411774"></script>
   <script>
     const PRESETS = {
       b2b_sales: {

diff --git a/ainoma/qollanmalar.html b/ainoma/qollanmalar.html
@@ -6,7 +6,7 @@
   <meta name="description" content="Sun’iy intellektni noldan o‘rganish, ChatGPT va Claude bilan ishlash, biznes jarayonlarini avtomatlashtirish hamda professional master promptlar bo‘yicha to‘liq amaliy qo‘llanmalar kutubxonasi.">
   <meta name="keywords" content="sun'iy intellekt qollanma, suniy intellekt nima, chatgpt ishlatish, prompt yozish, ai bilan pul ishlash, suniy intellekt darslari, ainoma">
   <title>Sun’iy Intellekt Qo‘llanmalari (2026): Noldan O‘rganish, Promptlar va Amaliyot — AiNoma</title>
-  <link rel="stylesheet" href="style.css?v=1794398883">
+  <link rel="stylesheet" href="style.css?v=1794411774">
   <link rel="canonical" href="https://ainoma.uz/qollanmalar.html">
   <meta property="og:type" content="website">
   <meta property="og:site_name" content="AiNoma">
@@ -405,6 +405,6 @@
     </button>
   </nav>
 
-  <script src="app.js?v=1794398883"></script>
+  <script src="app.js?v=1794411774"></script>
 </body>
 </html>

diff --git a/ainoma/yangiliklar.html b/ainoma/yangiliklar.html
@@ -7,7 +7,7 @@
 <meta name="description" content="O‘zbekiston va jahon sun’iy intellekt (AI) olamidagi eng so‘nggi yangiliklar, OpenAI, Google, Anthropic rasmiy relizlari va eksklyuziv tahliliy sharhlar.">
   <meta name="keywords" content="sun'iy intellekt yangiliklari, suniy intellekt, ai yangiliklar 2026, openai yangiliklari, chatgpt, claude, google gemini, ainoma">
 <title>Sun’iy Intellekt Yangiliklari (2026): Eng So‘nggi AI Voqealari va Tahlillar — AiNoma</title>
-<link href="style.css?v=1794398883" rel="stylesheet"/>
+<link href="style.css?v=1794411774" rel="stylesheet"/>
 <link href="https://ainoma.uz/yangiliklar.html" rel="canonical"/>
 <meta content="website" property="og:type"/>
 <meta content="AiNoma" property="og:site_name"/>
@@ -1815,6 +1815,6 @@
     </button>
   </nav>
 
-  <script src="app.js?v=1794398883"></script>
+  <script src="app.js?v=1794411774"></script>
 </body>
 </html>

diff --git a/ainoma/maqola.html b/ainoma/maqola.html
@@ -14,7 +14,7 @@
   <meta name="viewport" content="width=device-width,initial-scale=1">
   <meta name="description" content="OpenAI yangi Agents API va Data Agent vositalarini chiqardi. Bu O‘zbekiston biznesi va mutaxassislari uchun nimani anglatadi?">
   <title>OpenAI Agents API va ChatGPT Data Agent tahlili — AiNoma</title>
-  <link rel="stylesheet" href="style.css?v=1794398883">
+  <link rel="stylesheet" href="style.css?v=1794411774">
   <link rel="canonical" href="https://ainoma.uz/maqola.html">
   <meta property="og:type" content="website">
   <meta property="og:site_name" content="AiNoma">
@@ -167,8 +167,8 @@
     </div>
   </footer>
 
-  <script src="articles-data.js?v=1794398883"></script>
-  <script src="app.js?v=1794398883"></script>
+  <script src="articles-data.js?v=1794411774"></script>
+  <script src="app.js?v=1794411774"></script>
 
   <script>
   (function() {

diff --git a/ainoma/qollanma-xavfsizlik.html b/ainoma/qollanma-xavfsizlik.html
@@ -5,7 +5,7 @@
   <meta name="viewport" content="width=device-width,initial-scale=1">
   <meta name="description" content="Kompaniyada sun’iy intellekt xavfsizligi va tijorat sirlarini himoya qilish bo‘yicha 5 qadamli amaliy qo‘llanma. Zero Data Retention, Data Masking va korporativ siyosat.">
   <title>Kompaniyada Sun’iy Intellekt Xavfsizligi va Maxfiylik: 5 Qadamli Qo‘llanma | AiNoma</title>
-  <link rel="stylesheet" href="style.css?v=1794398883">
+  <link rel="stylesheet" href="style.css?v=1794411774">
   <link rel="canonical" href="https://ainoma.uz/qollanma-xavfsizlik.html">
   <meta property="og:type" content="article">
   <meta property="og:site_name" content="AiNoma">
@@ -207,6 +207,6 @@
     </button>
   </nav>
 
-  <script src="app.js?v=1794398883"></script>
+  <script src="app.js?v=1794411774"></script>
 </body>
 </html>

diff --git a/ainoma/qollanma-moliya.html b/ainoma/qollanma-moliya.html
@@ -5,7 +5,7 @@
   <meta name="viewport" content="width=device-width,initial-scale=1">
   <meta name="description" content="Kompaniya moliyasi, 1C hisobotlari va kassa nazoratida sun’iy intellektdan foydalanish bo‘yicha amaliy qo‘llanma. Cash flow tahlili, xarajatlar auditi va marjani oshirish.">
   <title>Moliyaviy Tahlil va Buxgalteriyada Sun’iy Intellekt: Amaliy Qo‘llanma | AiNoma</title>
-  <link rel="stylesheet" href="style.css?v=1794398883">
+  <link rel="stylesheet" href="style.css?v=1794411774">
   <link rel="canonical" href="https://ainoma.uz/qollanma-moliya.html">
   <meta property="og:type" content="article">
   <meta property="og:site_name" content="AiNoma">
@@ -190,6 +190,6 @@
     </button>
   </nav>
 
-  <script src="app.js?v=1794398883"></script>
+  <script src="app.js?v=1794411774"></script>
 </body>
 </html>
